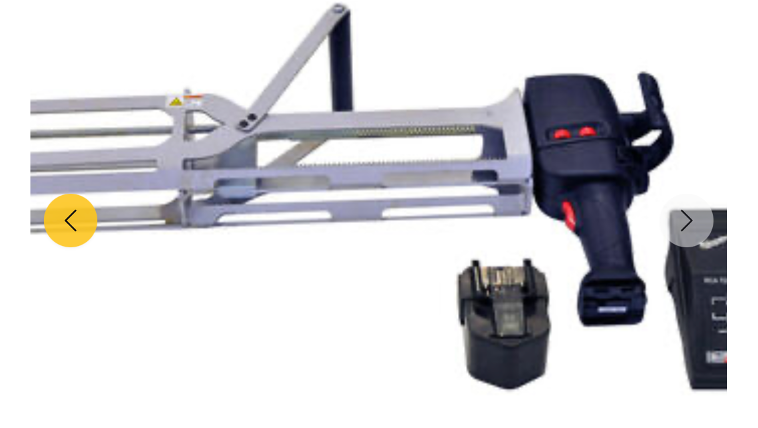
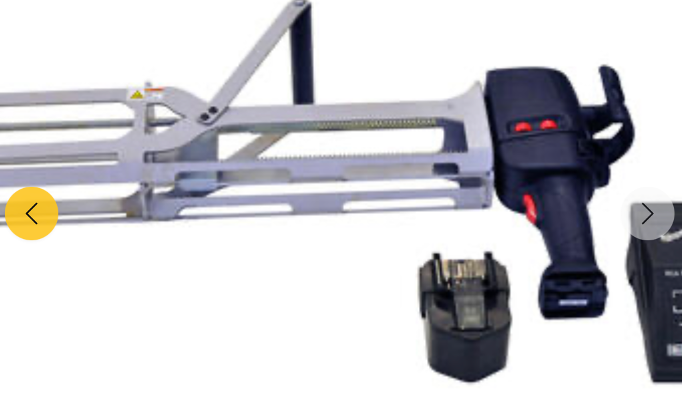
Adding Location images

Changed region(s): [[0.0, 0.0, 1.0, 0.933]]

diff --git a/lib/rental/locationImages.ts b/lib/rental/locationImages.ts
@@ -1,0 +1,27 @@
+/**
+ * Default hero images for seed rental products.
+ * Files live in public/images/Location/ (served as /images/Location/...).
+ */
+export const RENTAL_SEED_IMAGES: Record<string, string> = {
+  "loc-01": "/images/Location/IM90Xi.png",
+  "loc-02": "/images/Location/IM65A.png",
+  "loc-03": "/images/Location/IM350.png",
+  "loc-04": "/images/Location/IM90Ci.png",
+  "loc-05": "/images/Location/PPN50Ci.png",
+  "loc-06": "/images/Location/FNS1850.png",
+  "loc-07": "/images/Location/MachArd1.png",
+  "loc-08": "/images/Location/MachArd2.png",
+  "loc-09": "/images/Location/CamGrue.png",
+  "loc-10": "/images/Location/EVASEUR.png",
+  "loc-11": "/images/Location/GRIGNOTEUSE.png",
+  "loc-12": "/images/Location/Fraise.png",
+  "loc-13": "/images/Location/FraiseMulti.png",
+  "loc-14a": "/images/Location/RegleMafell.png",
+  "loc-14b": "/images/Location/RegleMafell.png",
+  "loc-14c": "/images/Location/RegleMafell.png",
+  "loc-15": "/images/Location/SystLev.png",
+  "loc-16": "/images/Location/UnlinUnidek.png",
+  "loc-17": "/images/Location/PistDerb.png",
+  "loc-18": "/images/Location/Thermosouffleur.png",
+  "loc-19": "/images/Location/Derouleur.png",
+};

diff --git a/lib/rental/catalog.ts b/lib/rental/catalog.ts
@@ -1,6 +1,7 @@
 import fs from "fs";
 import path from "path";
 import { RENTAL_PRODUCTS, type RentalProduct } from "./data";
+import { RENTAL_SEED_IMAGES } from "./locationImages";
 
 const DATA_DIR = path.join(process.cwd(), "data");
 const OVERRIDES_FILE = path.join(DATA_DIR, "rental-product-overrides.json");
@@ -49,9 +50,13 @@ export function writeCustomRentalProducts(products: RentalProduct[]) {
 export function getMergedRentalProducts(): RentalProduct[] {
   const overrides = readRentalOverridesFile();
   const seedMerged = RENTAL_PRODUCTS.map((p) => {
+    const defaultImage = RENTAL_SEED_IMAGES[p.id];
+    const base: RentalProduct = defaultImage
+      ? { ...p, image: defaultImage }
+      : { ...p };
     const o = overrides[p.id];
-    if (!o) return { ...p };
-    return { ...p, ...o, id: p.id };
+    if (!o) return base;
+    return { ...base, ...o, id: p.id };
   });
   const custom = readCustomRentalProducts();
   return [...seedMerged, ...custom];
